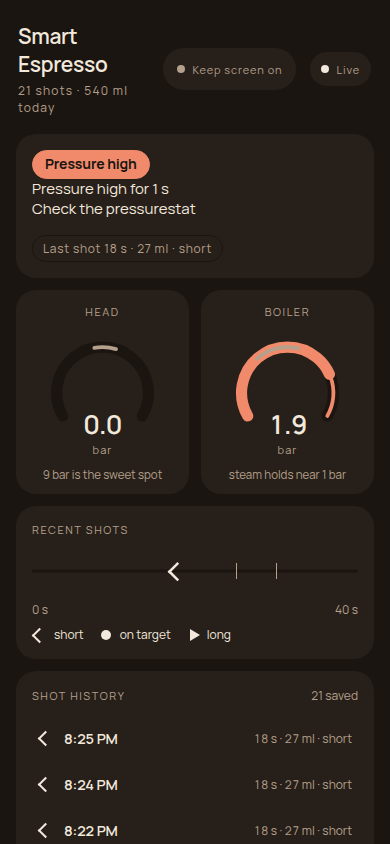
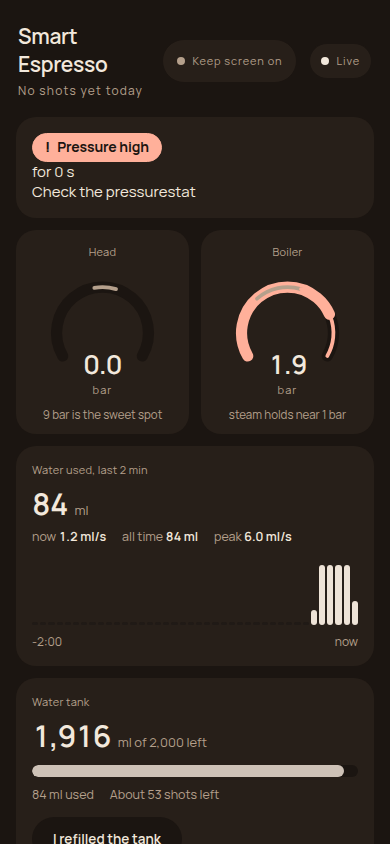
fix: separate warming, quieten the detail line, and lighten the dark alert
Warming up gets an espresso ring. Detail lines no longer repeat the
pill. Dark Pressure high is #FFB09A with a hidden exclamation mark.
Card titles stay in sentence case, and a short shot is a minus.

diff --git a/smart_espresso/web/static/index.html b/smart_espresso/web/static/index.html
@@ -69,7 +69,7 @@
       --ink: #F2E8DC;
       --mute: #B5A08C;
       --acc: #E58A5C;
-      --alert: #F08A6B;
+      --alert: #FFB09A;
       --alert-ink: var(--bg);
     }
   }
@@ -81,7 +81,7 @@
     --ink: #F2E8DC;
     --mute: #B5A08C;
     --acc: #E58A5C;
-    --alert: #F08A6B;
+    --alert: #FFB09A;
     --alert-ink: var(--bg);
   }
 
@@ -179,8 +179,7 @@
   .title {
     font-family: var(--mono);
     font-size: 11px;
-    letter-spacing: .14em;
-    text-transform: uppercase;
+    letter-spacing: .02em;
     color: var(--ink-soft);
   }
 
@@ -259,6 +258,22 @@
     border-color: var(--alert);
   }
 
+  .state.heating .state-label {
+    color: var(--ink);
+    border-color: var(--ink);
+    background: var(--bg);
+  }
+
+  .state.heating .state-label::before {
+    content: "";
+    width: 8px;
+    height: 8px;
+    border-radius: 50%;
+    border: 1.5px solid var(--ink);
+    background: transparent;
+    flex: none;
+  }
+
   .state.ready .state-label {
     background: transparent;
     color: var(--acc);
@@ -271,13 +286,24 @@
     border: 1px dashed var(--mute);
   }
 
-  .state.live .state-label::before {
-    content: "";
+  .state.live .state-label::before,
+  .alert-mark {
+    display: inline-flex;
+    align-items: center;
+    justify-content: center;
     width: 6px;
     height: 6px;
     border-radius: 50%;
     background: var(--card);
     flex: none;
+  }
+
+  .alert-mark {
+    width: auto;
+    height: auto;
+    border-radius: 0;
+    background: transparent;
+    font-weight: 800;
   }
 
   .state-body {
@@ -586,12 +612,15 @@
   }
 
   .mark.fast::before {
-    width: 9px;
-    height: 9px;
-    margin: -5px 0 0 -6px;
-    border-left: 2.5px solid var(--ink);
-    border-bottom: 2.5px solid var(--ink);
-    transform: rotate(45deg);
+    content: "−";
+    width: auto;
+    height: auto;
+    margin: 0;
+    border: none;
+    transform: translate(-50%, -58%);
+    color: var(--ink);
+    font-size: 15px;
+    line-height: 1;
   }
 
   .mark.good::before {
@@ -1036,7 +1065,9 @@
       <span class="lamp" id="lamp"></span>
       <span class="glyph" id="state-glyph" aria-hidden="true"></span>
       <div class="state-copy">
-        <div class="state-label" id="state-label" aria-live="polite">Connecting…</div>
+        <div class="state-label" id="state-label" aria-live="polite"><span
+            class="alert-mark" id="alert-mark" aria-hidden="true" hidden>!</span><span
+            id="state-label-text">Connecting…</span></div>
         <span class="stale-tag" id="stale-tag" hidden>Last seen</span>
       </div>
     </div>
@@ -1270,7 +1301,14 @@ function applyPill(card, label) {
   PILL_KINDS.forEach((kind) => card.classList.remove(kind));
   const kind = DashboardLogic.pillKind(label);
   if (kind) card.classList.add(kind);
+  const mark = document.getElementById('alert-mark');
+  if (mark) mark.hidden = kind !== 'alert';
   return DashboardLogic.pillLabel(label);
+}
+
+function setStateLabel(text) {
+  const el = document.getElementById('state-label-text');
+  if (el.textContent !== text) el.textContent = text;
 }
 
 function renderState(machine, pressure) {
@@ -1295,8 +1333,7 @@ function renderState(machine, pressure) {
 
   // Only rewritten when it actually changes: the label carries aria-live,
   // and a per-second "3s in this state" would talk an ear off.
-  const label = document.getElementById('state-label');
-  if (label.textContent !== shownLabel) label.textContent = shownLabel;
+  setStateLabel(shownLabel);
 
   const shot = document.getElementById('shot');
   shot.hidden = !presentation.showShot;
@@ -2041,7 +2078,7 @@ function paintOfflineChrome() {
   if (offline.replace) {
     const offlineCard = document.getElementById('state');
     const offlineLabel = applyPill(offlineCard, offline.label);
-    document.getElementById('state-label').textContent = offlineLabel;
+    setStateLabel(offlineLabel);
     document.getElementById('state-detail').textContent = '';
     document.getElementById('shot').hidden = true;
     document.getElementById('warm').hidden = true;

diff --git a/smart_espresso/web/static/dashboard_logic.js b/smart_espresso/web/static/dashboard_logic.js
@@ -163,25 +163,9 @@
     return whole + " s";
   }
 
-  // One secondary line. Shot copy wins while a pull is running; heating
-  // names the boiler against the ready threshold; ready names the time in
-  // state. A later temperature or ready-alert can append to this string.
-  const STATE_NAMES = {
-    off: "Off",
-    heating: "Warming up",
-    ready: "Ready to pull",
-    brewing: "Pulling a shot",
-    steaming: "Steaming milk",
-    overpressure: "Pressure high. Check the pressurestat.",
-    unknown: "No sensor reading",
-    flushing: "Water running",
-  };
-
+  // The pill already names the state. This line only says how long.
   function durationLine(state, sinceSeconds) {
-    const dur = formatSpokenDuration(sinceSeconds);
-    if (state === "ready") return "Ready for " + dur;
-    const name = STATE_NAMES[state] || "Off";
-    return name + " for " + dur;
+    return "for " + formatSpokenDuration(sinceSeconds);
   }
 
   // The machine label is one sentence. The pill only needs the short name,
@@ -214,12 +198,12 @@
     }
     if (machine.state === "heating" && typeof boilerBar === "number") {
       const eta = formatEta(warmingEtaSeconds(boilerBar, machine.since_seconds));
-      const base = "Warming up · " + boilerBar.toFixed(1) + " of 0.8 bar";
-      return eta ? base + " · " + eta : base;
+      const base = boilerBar.toFixed(1) + " of 0.8 bar";
+      return eta ? base + " · " + eta + " to go" : base;
     }
     if (machine.state === "overpressure") {
       return (
-        "Pressure high for " +
+        "for " +
         formatSpokenDuration(machine.since_seconds) +
         "\nCheck the pressurestat"
       );

diff --git a/smart_espresso/web/static/sw.js b/smart_espresso/web/static/sw.js
@@ -2,7 +2,7 @@
 // still opens (slightly stale, clearly marked so by the page itself) when
 // the machine's server hiccups. Sensor data is never cached: /api/* always
 // goes to the network.
-const CACHE = 'espresso-shell-v15';
+const CACHE = 'espresso-shell-v16';
 const SHELL = [
   '/',
   '/dashboard_logic.js',

diff --git a/smart_espresso/test/test_dashboard_logic.py b/smart_espresso/test/test_dashboard_logic.py
@@ -124,12 +124,11 @@ class TestGlance:
         ready = call(
             "logic.heroDetail({state:'ready', since_seconds:600, shot:null}, 1.1)"
         )
-        assert ready == "Ready for 10 min"
+        assert ready == "for 10 min"
         heating = call(
-            "logic.heroDetail({state:'heating', since_seconds:150, shot:null}, 0.6)"
+            "logic.heroDetail({state:'heating', since_seconds:30, shot:null}, 0.3)"
         )
-        assert heating.startswith("Warming up · 0.6 of 0.8 bar")
-        assert "about" in heating and "min" in heating
+        assert heating == "0.3 of 0.8 bar · about 2 min to go"
 
     def test_each_state_has_its_own_pill_class(self):
         assert call("logic.pillKind('Off')") == "off"
@@ -151,8 +150,45 @@ class TestGlance:
         detail = call(
             "logic.heroDetail({state:'overpressure', since_seconds:4, shot:null}, 1.9)"
         )
-        assert detail == "Pressure high for 4 s\nCheck the pressurestat"
+        assert detail == "for 4 s\nCheck the pressurestat"
+        assert "Pressure high" not in detail
         assert "pressurestat. for" not in detail
+
+    def test_detail_never_repeats_the_pill(self):
+        assert (
+            call(
+                "logic.heroDetail({state:'flushing', since_seconds:26, shot:null}, null)"
+            )
+            == "for 26 s"
+        )
+        assert (
+            call("logic.heroDetail({state:'off', since_seconds:4, shot:null}, null)")
+            == "for 4 s"
+        )
+        assert (
+            call("logic.heroDetail({state:'steaming', since_seconds:26, shot:null}, 1)")
+            == "for 26 s"
+        )
+        assert (
+            call(
+                "logic.heroDetail({state:'unknown', since_seconds:8, shot:null}, null)"
+            )
+            == "for 8 s"
+        )
+        aiming = call(
+            "logic.heroDetail({state:'brewing', since_seconds:12, shot:{seconds:12}}, null)"
+        )
+        assert aiming == "Aiming for 25 to 30 s"
+        for phrase in (
+            "Water running",
+            "Warming up",
+            "Off for",
+            "Ready for",
+            "Steaming milk",
+            "No sensor reading",
+            "Pressure high for",
+        ):
+            assert phrase not in aiming
 
     def test_warming_bar_and_eta_need_a_real_slope(self):
         assert call("logic.warmingProgress(0.4)") == 0.5
@@ -313,7 +349,8 @@ class TestShippedShell:
         assert 'id="tank-card" hidden' in self.page
 
     def test_connecting_screen_has_skeletons_and_no_live_lamp(self):
-        assert 'id="state-label" aria-live="polite">Connecting…' in self.page
+        assert 'id="state-label" aria-live="polite"' in self.page
+        assert 'id="state-label-text">Connecting…' in self.page
         start = self.page.index('id="skeletons"')
         end = self.page.index("<!-- end skeletons -->")
         block = self.page[start:end]
@@ -411,3 +448,20 @@ class TestWording:
         assert "history.length} shot" not in self.page
         assert "`${count} saved`" in self.page
         assert "'1 saved'" in self.page
+
+    def test_warming_pill_has_an_espresso_ring(self):
+        assert call("logic.pillKind('Warming up')") == "heating"
+        heating = _css_rule(self.page, ".state.heating .state-label")
+        assert "border-color: var(--ink)" in heating
+        ring = _css_rule(self.page, ".state.heating .state-label::before")
+        assert "border-radius: 50%" in ring
+        assert "background: transparent" in ring
+
+    def test_alert_mark_is_hidden_from_the_name_and_titles_are_sentence_case(self):
+        assert 'class="alert-mark"' in self.page
+        assert 'aria-hidden="true"' in self.page
+        assert ">!</span>" in self.page
+        assert "#FFB09A" in self.page
+        assert "#F08A6B" not in self.page
+        assert "text-transform: uppercase" not in _css_rule(self.page, ".title")
+        assert 'content: "−"' in _css_rule(self.page, ".mark.fast::before")

diff --git a/smart_espresso/test/test_dashboard_contrast.py b/smart_espresso/test/test_dashboard_contrast.py
@@ -27,7 +27,7 @@ DARK = {
     "ink": "#F2E8DC",
     "mute": "#B5A08C",
     "acc": "#E58A5C",
-    "alert": "#F08A6B",
+    "alert": "#FFB09A",
 }
 
 # Rounded to two decimals. Card on accent is the pill. Page on accent is
@@ -46,7 +46,7 @@ DARK_RATIOS = {
     ("mute", "bg"): 7.20,
     ("mute", "card"): 6.46,
     ("card", "acc"): 6.27,
-    ("bg", "alert"): 7.36,
+    ("bg", "alert"): 10.27,
 }
 
 
@@ -158,7 +158,7 @@ class TestDashboardContrast:
         assert "fonts.googleapis.com" not in self.worker
         assert "fonts.gstatic.com" not in self.worker
         assert "/fonts/manrope.woff2" in self.worker
-        assert "espresso-shell-v15" in self.worker
+        assert "espresso-shell-v16" in self.worker
         font = PAGE.parent / "fonts" / "manrope.woff2"
         assert font.is_file()
         assert font.read_bytes()[:4] == b"wOF2"
